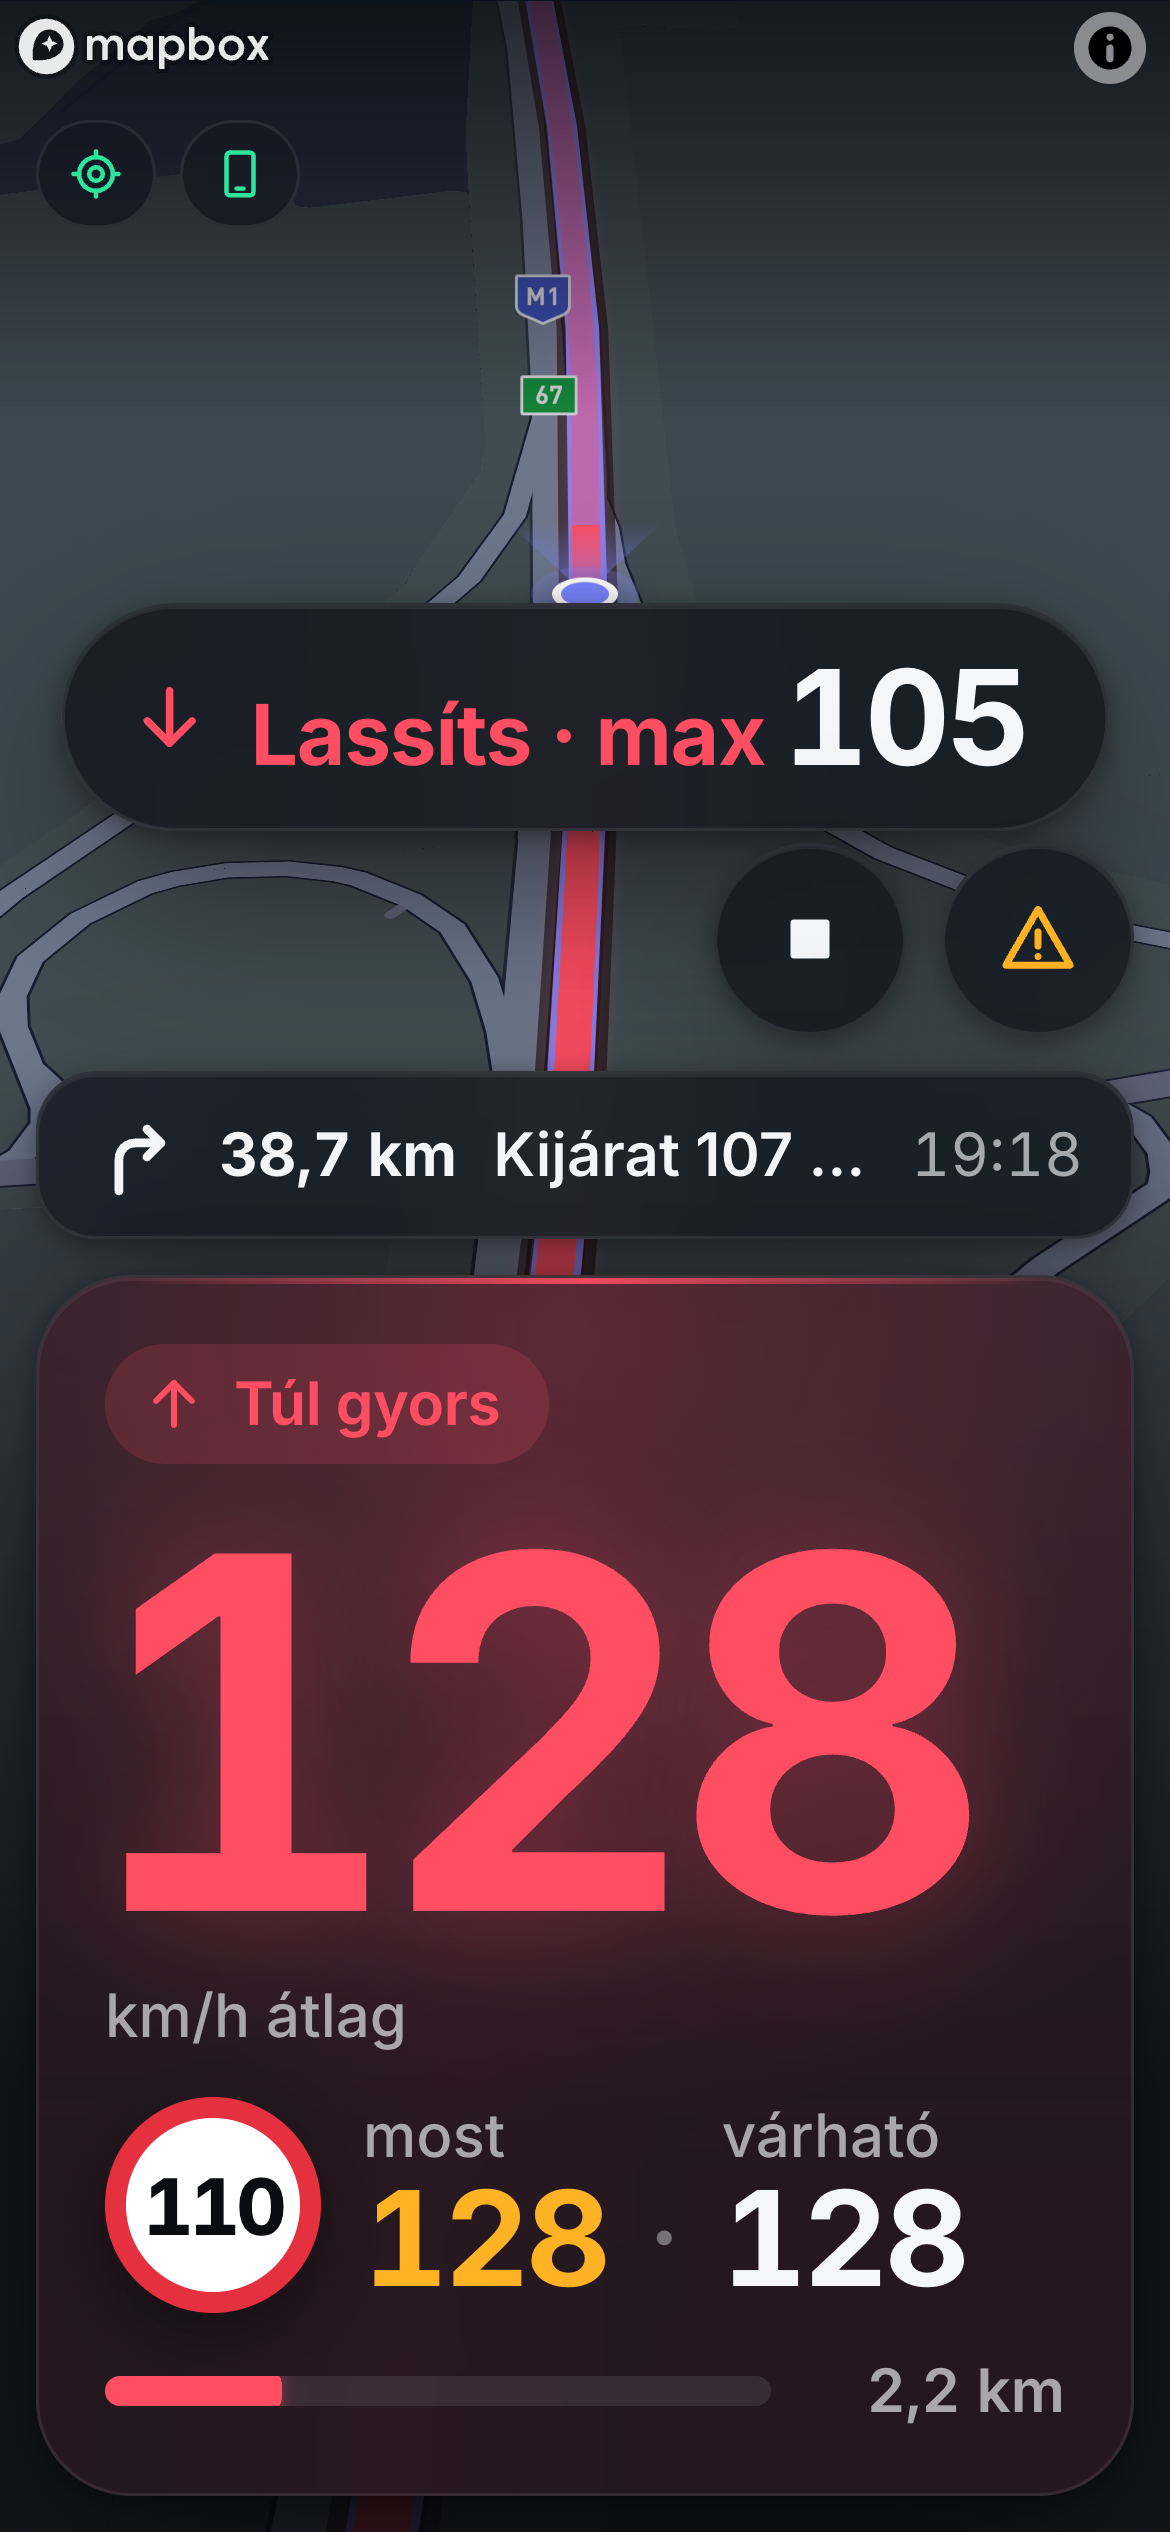
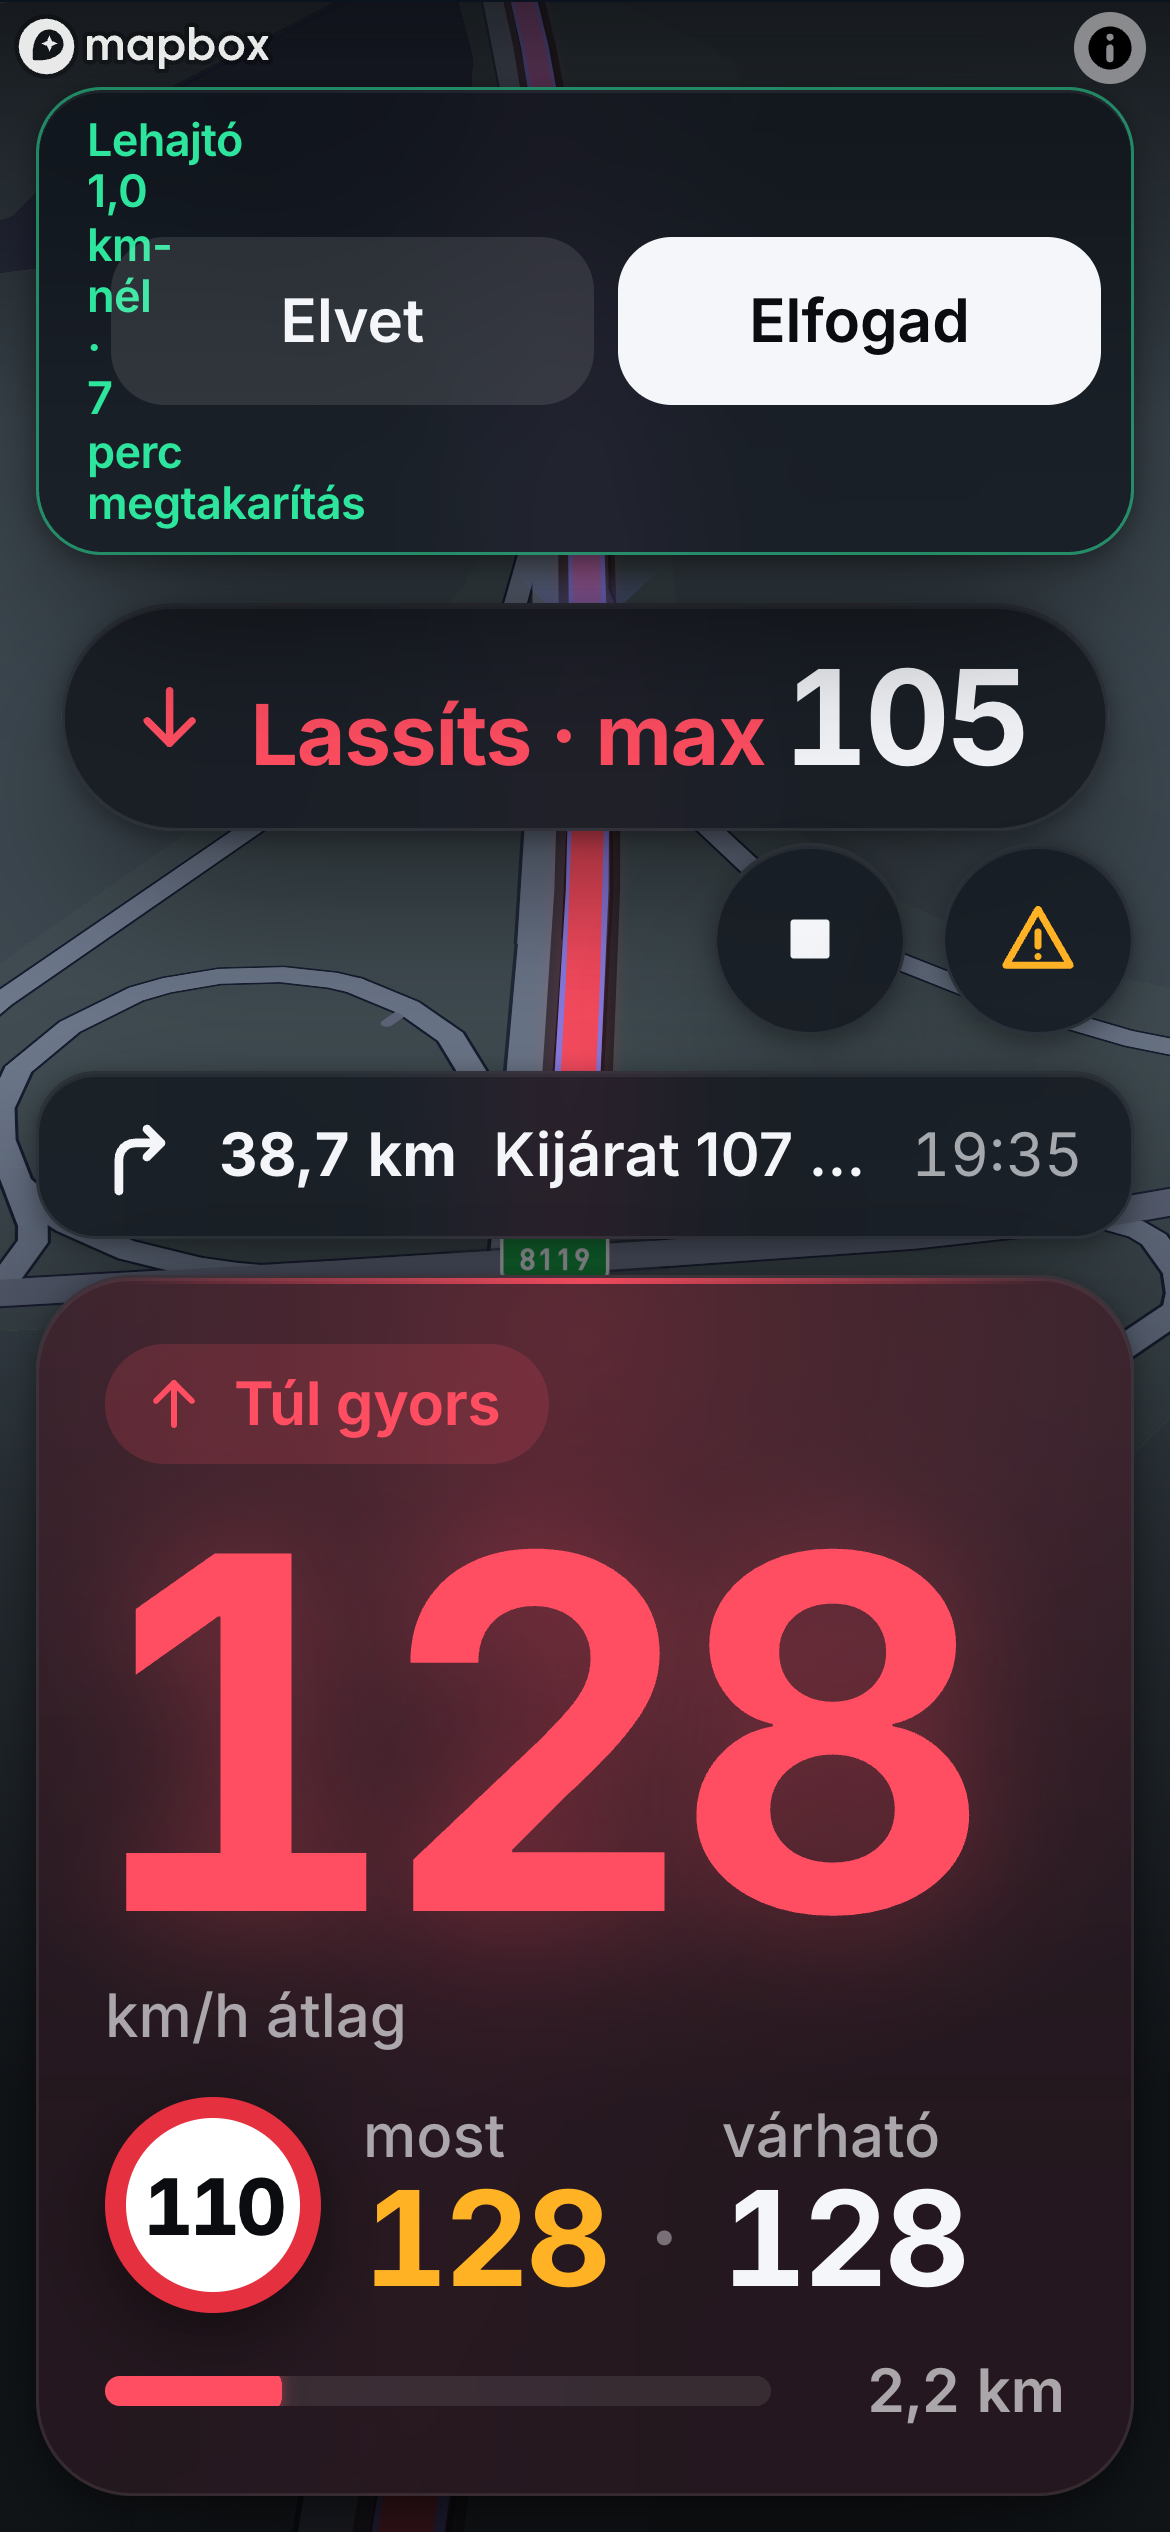
A8c: gyorsabb út ajánlat mérés közben – leágazási pont, kompakt ajánlat

diff --git a/packages/app-logic/src/navigation/session.ts b/packages/app-logic/src/navigation/session.ts
@@ -1,11 +1,11 @@
 import { Route, type GpsFix, type LatLon } from '@atlagsebesseg/core';
 import { speedIn, type SpeedStatus } from '../display';
-import { t } from '../i18n';
+import { formatNumber, t } from '../i18n';
 import type { SpeedUnit } from '../settings';
 import type { RouteFetcher } from './client';
 import { NAV_CONFIG, type NavConfig } from './config';
 import { limitAt } from './directions';
-import { adjustedDurations, cumulative, NO_ENFORCEMENT_DATA, remainingSeconds, routeEnforcement, routeOverlap, type EnforcementData } from './enforcement';
+import { adjustedDurations, cumulative, divergenceM, NO_ENFORCEMENT_DATA, remainingSeconds, routeEnforcement, routeOverlap, type EnforcementData } from './enforcement';
 import { maneuverIcon, type ManeuverIcon } from './maneuver';
 import type { EnforcementItem, NavDestination, NavRoute, NavStep } from './types';
 
@@ -34,6 +34,14 @@ export interface AlternativeOffer {
   /** Nyereség a jelenlegi útvonalhoz képest (s). */
   gainS: number;
   expiresAt: number;
+  /** A leágazás helye az aktuális útvonal mentén (m). */
+  exitAlongM: number;
+  /** A leágazásig hátralévő távolság (m) – a nézetben élőben számolva. */
+  exitInM: number;
+  /** Ugyanez km-ben, a nyelv tizedesjelével (a feliratokhoz). */
+  exitKm: string;
+  /** Mérés közben megjelenő, kompakt forma. */
+  compact: boolean;
 }
 
 export interface NavView {
@@ -111,7 +119,7 @@ export class NavigationSession {
   private altPending = false;
   private offer: AlternativeOffer | null = null;
   /** Mérés közben visszatartott ajánlat: a mérés végén jelenik meg, friss lejárati idővel. */
-  private held: { route: NavRoute; gainS: number } | null = null;
+  private held: { route: NavRoute; gainS: number; exitAlongM: number } | null = null;
   private measuring = false;
   private readonly declined = new Set<string>();
 
@@ -179,8 +187,8 @@ export class NavigationSession {
   setMeasuring(measuring: boolean): void {
     if (measuring === this.measuring) return;
     this.measuring = measuring;
-    if (measuring && this.offer) {
-      this.held = { route: this.offer.route, gainS: this.offer.gainS };
+    if (measuring && this.offer && !this.exitBeforeSectionEnd(this.offer.exitAlongM)) {
+      this.held = { route: this.offer.route, gainS: this.offer.gainS, exitAlongM: this.offer.exitAlongM };
       this.offer = null;
     } else if (!measuring && this.held) {
       const h = this.held;
@@ -248,6 +256,9 @@ export class NavigationSession {
     }
 
     if (this.offer && t0 >= this.offer.expiresAt) this.declineOffer();
+    // a leágazást elhagytuk: az ajánlat érvénytelen
+    if (this.offer && this.along > this.offer.exitAlongM + 50) this.offer = null;
+    if (this.held && this.along > this.held.exitAlongM + 50) this.held = null;
 
     // alternatíva-figyelés: 2 percenként, ha minden rendben
     if (
@@ -256,7 +267,7 @@ export class NavigationSession {
       !this.altPending &&
       this.offSince === null &&
       this.offer === null &&
-      this.held === null &&
+      (this.held === null || this.measuring) &&
       t0 - this.lastAltAt >= this.cfg.altCheckEveryMs &&
       this.canRoute(t0, this.lastCallAt, this.cfg.directionsMinGapMs)
     ) {
@@ -342,17 +353,34 @@ export class NavigationSession {
       }
     }
     if (!best) return;
-    this.present(best);
+    const d = divergenceM(this.core, best.route) ?? 0;
+    this.present({ ...best, exitAlongM: this.along + d });
+  }
+
+  /** A mérés alatt álló szakasz végkapuja előtt van-e a leágazás (kézi mérésnél nincs végkapu → nem). */
+  private exitBeforeSectionEnd(exitAlongM: number): boolean {
+    const sec = this.items.find((i) => i.kind === 'section' && i.startM <= this.along && this.along <= i.endM);
+    return sec !== undefined && exitAlongM < sec.endM;
   }
 
   /** Az ajánlat megjelenítése (és bemondása); mérés közben visszatartjuk. */
-  private present(best: { route: NavRoute; gainS: number }): void {
-    if (this.measuring) {
+  private present(best: { route: NavRoute; gainS: number; exitAlongM: number }): void {
+    if (this.measuring && !this.exitBeforeSectionEnd(best.exitAlongM)) {
       this.held = best;
       return;
     }
-    this.offer = { id: `offer-${++this.voiceSeq}`, route: best.route, gainS: best.gainS, expiresAt: this.clock() + this.cfg.offerTtlMs };
-    this.say('faster', t('nav.voice.faster', { n: Math.max(1, Math.round(best.gainS / 60)) }));
+    this.offer = { id: `offer-${++this.voiceSeq}`, route: best.route, gainS: best.gainS, exitAlongM: best.exitAlongM, exitInM: 0, exitKm: '', compact: false, expiresAt: this.clock() + this.cfg.offerTtlMs };
+    if (this.measuring) this.say('faster', t('nav.voice.fasterExit', { km: this.exitKm(best.exitAlongM - this.along) }));
+    else this.say('faster', t('nav.voice.faster', { n: Math.max(1, Math.round(best.gainS / 60)) }));
+  }
+
+  private offerView(o: AlternativeOffer): AlternativeOffer {
+    const exitInM = Math.max(0, o.exitAlongM - this.along);
+    return { ...o, exitInM, exitKm: this.exitKm(exitInM), compact: this.measuring };
+  }
+
+  private exitKm(m: number): string {
+    return formatNumber(Math.max(0, m) / 1000, { minimumFractionDigits: 1, maximumFractionDigits: 1, useGrouping: false });
   }
 
   acceptOffer(): void {
@@ -495,7 +523,7 @@ export class NavigationSession {
       enforcement: this.items,
       offRoute: this.offSince !== null && this.cross > this.cfg.offRouteM,
       rerouting: this.rerouting,
-      offer: this.offer,
+      offer: this.offer ? this.offerView(this.offer) : null,
       rerouteFailed: this.rerouteFailed,
     };
     return this.cached;

diff --git a/packages/app-logic/test/navigation.test.ts b/packages/app-logic/test/navigation.test.ts
@@ -396,11 +396,16 @@ describe('alternatíva-figyelés', () => {
     expect(offer).not.toBeNull();
   });
 
-  it('mérés közben nincs ajánlat; a mérés végén jelenik meg, onnan 45 mp', async () => {
+  /** Az alternatíva az `k`-adik 100 m-es ponttól tér le az útvonalról. */
+  const branching = (k: number): NavRoute => {
+    const alt = scaleDurations(lineRoute({ lengthM: 42_000, durationS: 1800, id: 'alt' }), 1200, 'alt');
+    return { ...alt, points: alt.points.map((p, i) => (i >= k ? { lat: p.lat + 0.003, lon: p.lon } : p)) };
+  };
+
+  it('kézi mérés közben nincs ajánlat; a mérés végén jelenik meg, onnan 45 mp', async () => {
     const route = lineRoute({ lengthM: 40_000, durationS: 1800 });
-    const alt = scaleDurations(lineRoute({ lengthM: 42_000, durationS: 1800, id: 'alt' }), 1200, 'alt', 0.003);
     const h = harness(route);
-    h.respond([route, alt]);
+    h.respond([route, branching(30)]);
     h.session.setMeasuring(true);
     feed(h, at(route, 500, 0, T0 + 120_000));
     await flush();
@@ -414,6 +419,46 @@ describe('alternatíva-figyelés', () => {
     expect(offer).not.toBeNull();
     expect(offer!.expiresAt).toBe(T0 + 400_000 + NAV_CONFIG.offerTtlMs);
     expect(h.session.drainVoice().some((v) => v.kind === 'faster')).toBe(true);
+  });
+
+  async function measuringWith(sectionToM: number, branchK: number) {
+    const route = lineRoute({ lengthM: 40_000, durationS: 1800 });
+    const h = harness(route);
+    h.session.setData({ sections: [makeSection(route, 400, sectionToM)], cameras: [], planned: [] });
+    h.respond([route, branching(branchK)]);
+    h.session.setMeasuring(true);
+    feed(h, at(route, 500, 0, T0 + 120_000));
+    await flush();
+    return h;
+  }
+
+  it('mérés közben: a leágazás a szakasz vége előtt → azonnal, kompakt ajánlat lehajtó-távolsággal', async () => {
+    const h = await measuringWith(3000, 10);
+    const offer = h.session.view().offer;
+    expect(offer).not.toBeNull();
+    expect(offer!.compact).toBe(true);
+    expect(offer!.exitInM).toBeGreaterThan(500);
+    expect(offer!.exitInM).toBeLessThan(1500);
+    expect(offer!.expiresAt).toBe(T0 + 120_000 + NAV_CONFIG.offerTtlMs);
+    const voice = h.session.drainVoice().filter((v) => v.kind === 'faster');
+    expect(voice).toHaveLength(1);
+    expect(voice[0]!.text).toContain(offer!.exitKm);
+    // a mérés végén a forma nem kompakt, az ajánlat marad
+    h.session.setMeasuring(false);
+    expect(h.session.view().offer!.compact).toBe(false);
+  });
+
+  it('mérés közben: a leágazás a szakasz vége után → visszatartva, a mérés végén jelenik meg', async () => {
+    const h = await measuringWith(800, 20);
+    expect(h.session.view().offer).toBeNull();
+    h.session.setMeasuring(false);
+    expect(h.session.view().offer).not.toBeNull();
+  });
+
+  it('a leágazást elhagyva az ajánlat eltűnik', async () => {
+    const h = await measuringWith(3000, 10);
+    feed(h, at(lineRoute({ lengthM: 40_000 }), 1900, 0, T0 + 130_000));
+    expect(h.session.view().offer).toBeNull();
   });
 
   it('elfogadás: az alternatíva veszi át; elvetés: ugyanaz nem jön vissza', async () => {

diff --git a/packages/app-logic/src/navigation/enforcement.ts b/packages/app-logic/src/navigation/enforcement.ts
@@ -1,4 +1,4 @@
-import { angleDiffDeg, Route, type LatLon, type Section } from '@atlagsebesseg/core';
+import { angleDiffDeg, haversineM, Route, type LatLon, type Section } from '@atlagsebesseg/core';
 import { cameraVisibility, type FixedCamera } from '../cameras';
 import { onPlannedCheck, plannedCheckActive, type PlannedCheck } from '../plannedChecks';
 import { NAV_CONFIG } from './config';
@@ -145,3 +145,24 @@ export function routeOverlap(a: NavRoute, b: NavRoute, bandM = 60): number {
   return n ? hit / n : 0;
 }
 
+
+/**
+ * Az alternatíva leágazási pontja: az első pontja, amely a jelenlegi útvonaltól `thresholdM`-nél
+ * távolabb esik. Visszaadja az alternatíva mentén mért távolságot a kezdőpontjától (az alternatívát
+ * a jelenlegi pozícióról kérjük, tehát ez a távolság a pozíciótól számít); `null`, ha végig egyezik.
+ */
+export function divergenceM(current: Route, alt: NavRoute, thresholdM = 30, stepM = 40): number | null {
+  let acc = 0;
+  let since = stepM;
+  for (let i = 0; i < alt.points.length; i++) {
+    if (i > 0) {
+      const seg = haversineM(alt.points[i - 1]!, alt.points[i]!);
+      acc += seg;
+      since += seg;
+    }
+    if (since < stepM) continue;
+    since = 0;
+    if (current.project(alt.points[i]!).crossM > thresholdM) return acc;
+  }
+  return null;
+}

diff --git a/apps/web/src/ui/NavHud.tsx b/apps/web/src/ui/NavHud.tsx
@@ -99,6 +99,21 @@ export function NavBottom({ view, unit, currentKmh, onEnd }: { view: NavView; un
 
 /** Felugró ajánlat: „Gyorsabb út: −7 perc” – Elfogad / Elvet (56 px-es gombok). */
 export function OfferCard({ offer, onAccept, onDecline }: { offer: AlternativeOffer; onAccept: () => void; onDecline: () => void }) {
+  if (offer.compact) {
+    // mérés közben: egysoros, a mérőkártya (státusz) fölött
+    const title = t('nav.offer.exit', { km: offer.exitKm, n: Math.max(1, Math.round(offer.gainS / 60)) });
+    return (
+      <section className="nav-offer nav-offer-compact glass" role="alertdialog" aria-label={title}>
+        <div className="title nav-offer-title">{title}</div>
+        <button className="btn" onClick={onDecline}>
+          {t('nav.offer.decline')}
+        </button>
+        <button className="btn primary" onClick={onAccept}>
+          {t('nav.offer.accept')}
+        </button>
+      </section>
+    );
+  }
   return (
     <section className="nav-offer glass" role="alertdialog" aria-label={t('nav.offer.title', { n: Math.max(1, Math.round(offer.gainS / 60)) })}>
       <div className="title nav-offer-title">{t('nav.offer.title', { n: Math.max(1, Math.round(offer.gainS / 60)) })}</div>

diff --git a/apps/web/src/App.tsx b/apps/web/src/App.tsx
@@ -545,7 +545,7 @@ function Drive({ map }: { map: WebMapAdapter }) {
         {view.phase === 'meres' && <SlowDown view={view} unit={settings.egyseg} />}
         {/* a HUD fölött lebeg (nem változtat a magasságán → a kamera nem ugrik); mérésnél a Lassíts-sáv fölött */}
         <div className="hud-float" data-raised={view.phase === 'meres'}>
-          {nav.view?.offer && !measuring && <OfferCard offer={nav.view.offer} onAccept={() => nav.session?.acceptOffer()} onDecline={() => nav.session?.declineOffer()} />}
+          {nav.view?.offer && <OfferCard offer={nav.view.offer} onAccept={() => nav.session?.acceptOffer()} onDecline={() => nav.session?.declineOffer()} />}
           {selected && (
             <ReportCard
               key={selected.id}

diff --git a/apps/web/src/styles.css b/apps/web/src/styles.css
@@ -1959,6 +1959,24 @@ a.list-row {
   color: var(--color-ok);
 }
 
+.nav-offer-compact {
+  flex-direction: row;
+  align-items: center;
+  gap: 8px;
+  padding: 8px 10px 8px 16px;
+  border-radius: 22px;
+}
+
+.nav-offer-compact .nav-offer-title {
+  flex: 1;
+  min-width: 0;
+  font-size: 15px;
+}
+
+.nav-offer-compact .btn {
+  padding: 0 14px;
+}
+
 .nav-offer .btn {
   height: 56px;
   min-height: 56px;

diff --git a/ROUNDS.md b/ROUNDS.md
@@ -14,3 +14,4 @@
 | A7b | 2026-10-28 | Sonnet 5.5 (helyi) | `d9bead1` | Mérőkártya: egyetlen állapot (jó / lassíts / túl gyors; a „határon” sáv megszűnt) a core `meterState`-ből, kártya-elrendezés „most · várható” sorral, szimulátor mind a 3 állapottal, marketing-PNG-k a docs/screenshots/-ban. |
 | A7c | 2026-10-28 | Sonnet 5.5 (helyi) | `11673dc` | Többnyelvűség (hu, en, de, sk, cs, pl; 188 kulcs/nyelv, `t()`, nyelvválasztó, hang-jelzés, teszt + headless hu→en) és települészóna a tervezett méréseknél (Speedmarathon-próba: 21 zóna a 61 csak-település sorból; 745 → 744 sor: a korábbi 22 azonos-azonosítójú dupla sor kiesett). |
 | A8 | 2026-10-28 | Sonnet 5.5 (helyi) | `c34f6ef` | Webes navigáció v1: Mapbox Geocoding kereső + Haza/Munka + utolsó 10 cél, Directions (driving-traffic, alternatívák, dugó-színezés), útvonalválasztó, `NavigationSession` az app-logic-ban (illesztés, letérés→újratervezés, alternatíva-figyelés, szakaszellenőrzés-tudatos ETA, hang), összevont nézet méréskor, költségvédelem + napi számláló, szimulátor (Budapest→Győr fixtúra) + headless végigjátszás (29 ellenőrzés), 4 marketing-PNG; döntések után: "N kamera · M ellenőrzött", az útvonal-adat egyszeri előtöltése minden útvonalra, ajánlat mérés közben visszatartva (a mérés végétől 45 mp). |
+| A8c | 2026-10-28 | Sonnet 5.5 (helyi) | `HASH` | „Gyorsabb út” ajánlat mérés közben: az alternatíva-polling mérés alatt is fut, leágazási pont (`divergenceM`); ha a mért szakasz végkapuja előtt van, azonnal kompakt ajánlat a mérőkártya fölött („Lehajtó {km} km-nél · {perc} perc megtakarítás”, hang), különben a mérés végéig visszatartva. |
